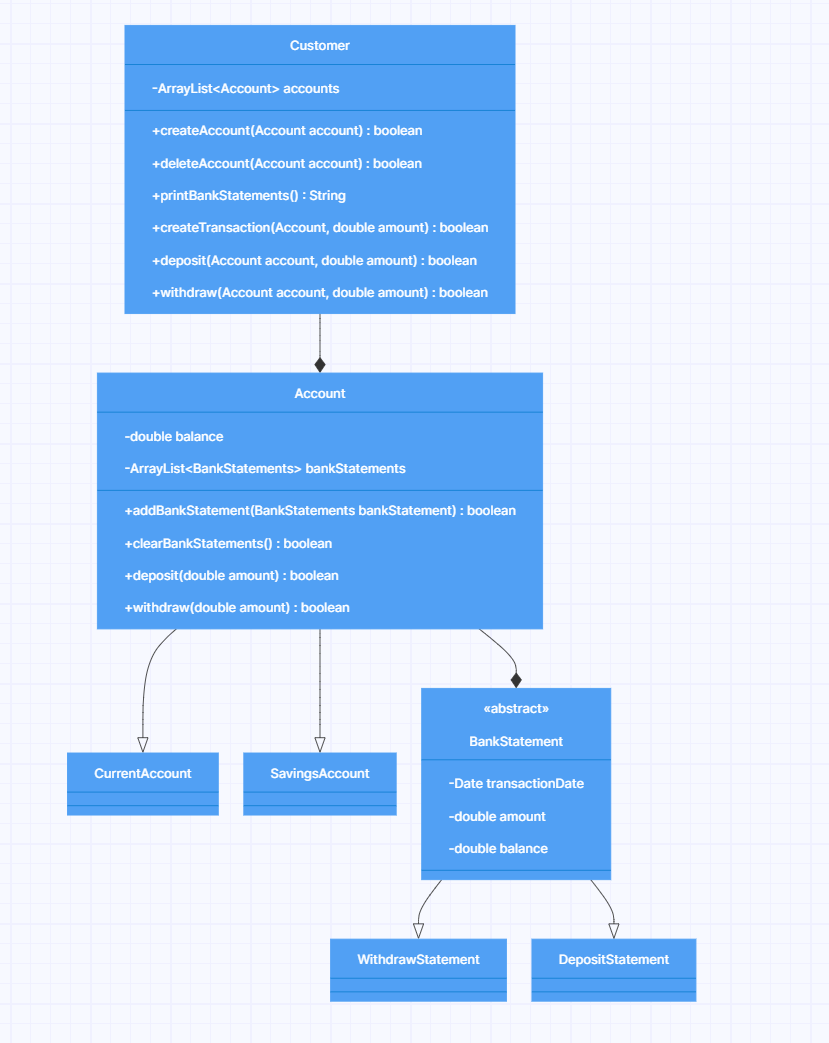
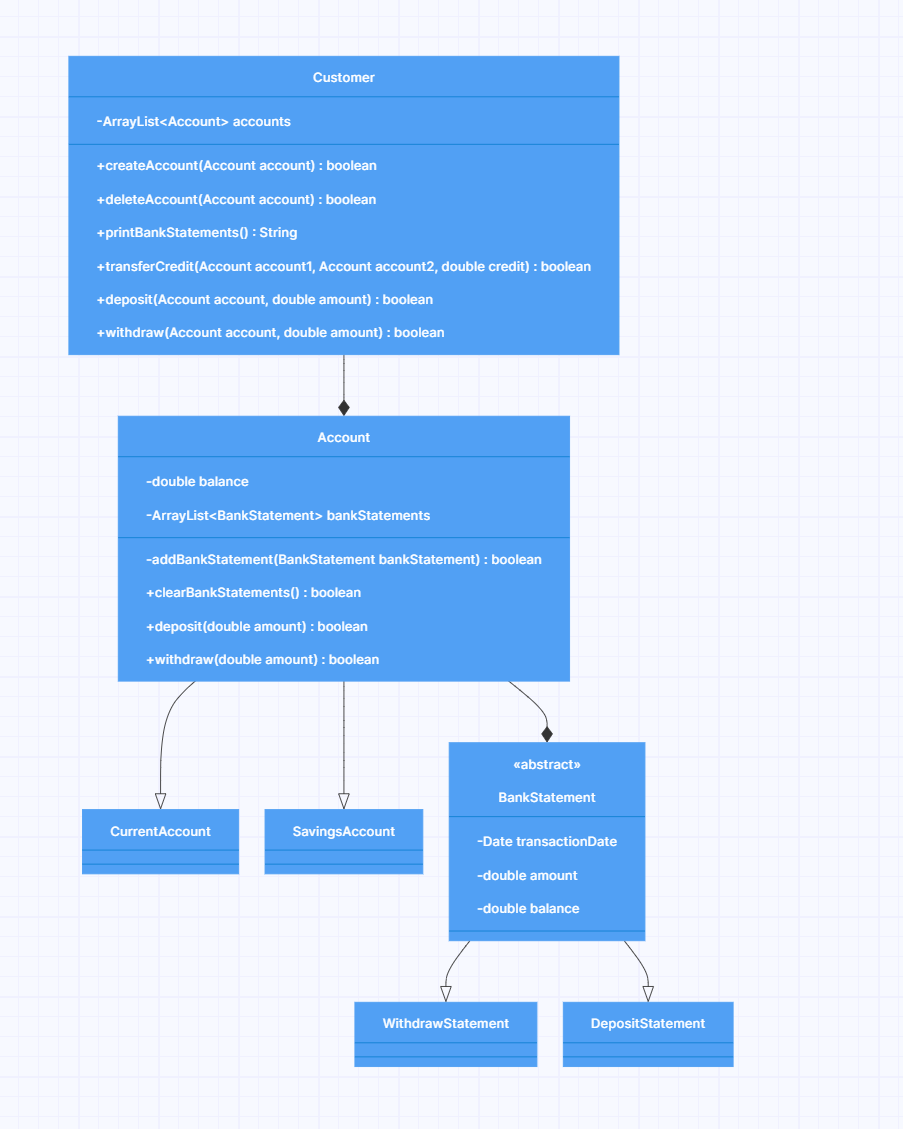
Refactor domain model for customer and classdiagram

Changed region(s): [[0.0603, 0.0, 0.8444, 0.9818], [0.0603, 0.6443, 0.2714, 0.7977]]

diff --git a/src/main/java/com/booleanuk/core/Customer.java b/src/main/java/com/booleanuk/core/Customer.java
@@ -31,6 +31,17 @@ public class Customer {
     }
 
 
+    public boolean deposit(Account account, double v) {
+        account.deposit(v);
+        return true;
+    }
+
+
+
+    public boolean withdraw(Account account, double v) {
+        account.withdraw(v);
+        return true;
+    }
 
 
 }

diff --git a/src/test/java/com/booleanuk/core/CustomerTest.java b/src/test/java/com/booleanuk/core/CustomerTest.java
@@ -59,4 +59,6 @@ public class CustomerTest {
 
     }
 
+
+
 }

diff --git a/Domain-models.md b/Domain-models.md
@@ -23,13 +23,13 @@ I want to deposit and withdraw funds.
 
 Class Customer
 
-| Class variables               | Method                                            | Scenario                                       | Return  |
-|-------------------------------|---------------------------------------------------|------------------------------------------------|---------|
-| ArrayList<Account> accounts   | createAccount(Account account)                    | Creates and adds account to accounts list      | boolean |
-|                               | deleteAccount(Account account)                    | Removes account from accounts list             | boolean |
-|                               | printBankStatements()                             | Prints bankStatements                          | String  |
-|                               | createTransaction(Account account, double amount) | Creates a transaction for the account provided | boolean |
-|                               |                                                   |                                                |         |
+| Class variables               | Method                                                            | Scenario                                       | Return  |
+|-------------------------------|-------------------------------------------------------------------|------------------------------------------------|---------|
+| ArrayList<Account> accounts   | createAccount(Account account)                                    | Creates and adds account to accounts list      | boolean |
+|                               | deleteAccount(Account account)                                    | Removes account from accounts list             | boolean |
+|                               | printBankStatements()                                             | Prints bankStatements                          | String  |
+|                               | transferCredit(Account account1, Account account2, double credit) | Creates a transaction for the account provided | boolean |
+|                               |                                                                   |                                                |         |
 
 
 Class Account
